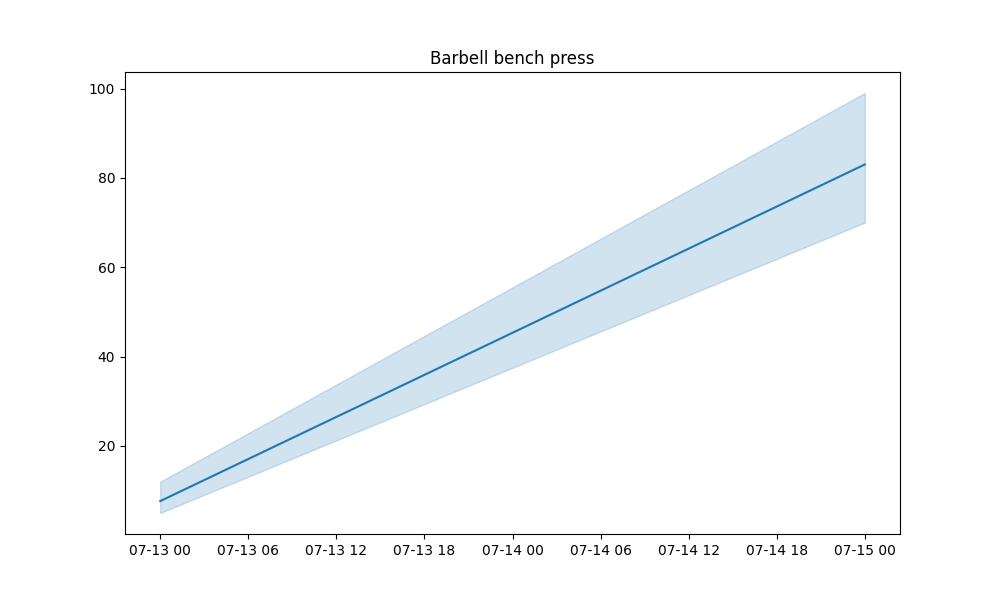
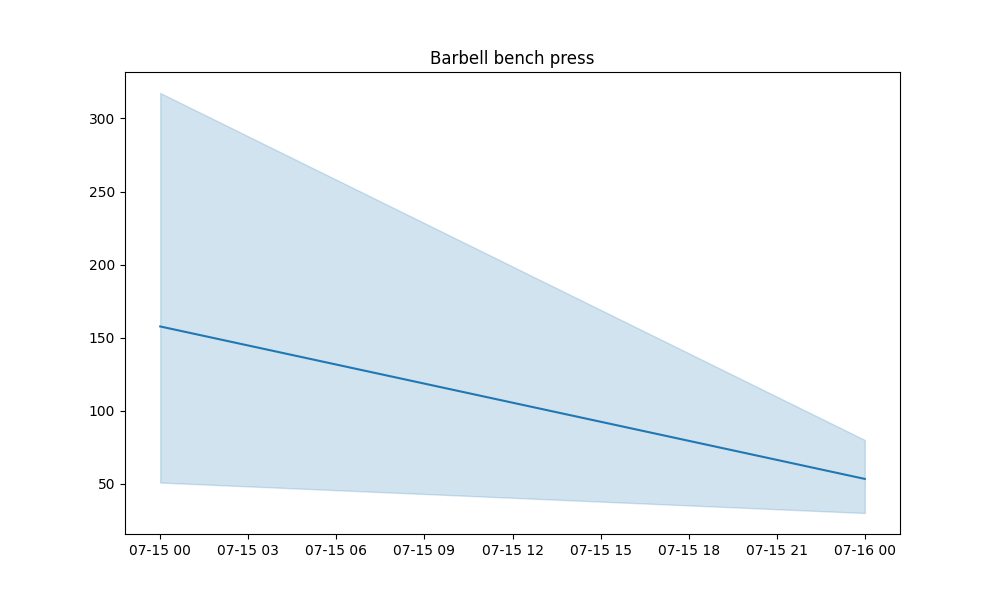
workout charts user

diff --git a/sportoclub/core/views.py b/sportoclub/core/views.py
@@ -15,12 +15,14 @@ import matplotlib.pyplot as plt
 import os
 from django.conf import settings
 from django.templatetags.static import static
+from django.utils import timezone
 
 
 
 
 def start_workout(request, pk):
     workout = get_object_or_404(Workout, pk=pk)
+    print(workout)
     first_exercise = WorkoutExercise.objects.filter(workout=workout).order_by('id').first()
     if first_exercise:
         return redirect('next_exercise', workout_pk=workout.pk, exercise_pk=first_exercise.pk)
@@ -36,12 +38,13 @@ def next_exercise(request, workout_pk, exercise_pk):
         if form.is_valid():
             # create SetLog objects like before
             for i in range(current_exercise.sets):
-                SetLog.objects.create(
+                setlog = SetLog.objects.create(
                     user=request.user,
                     workout_exercise=current_exercise,
                     weight=form.cleaned_data.get(f'weight_{i}'),
                     reps=form.cleaned_data.get(f'reps_{i}')
                 )
+                print(setlog)
             # then redirect to next exercise
             next_exercise = WorkoutExercise.objects.filter(workout=workout, id__gt=current_exercise.id).order_by('id').first()
             if next_exercise:
@@ -54,7 +57,10 @@ def next_exercise(request, workout_pk, exercise_pk):
 
 def workout_summary(request, workout_id):
     workout = get_object_or_404(Workout, pk=workout_id)
-    exercise_logs = SetLog.objects.filter(workout_exercise__workout=workout).order_by('timestamp')
+    print(workout)
+    now = timezone.now()
+    start_time = now - timezone.timedelta(hours=1)
+    exercise_logs = SetLog.objects.filter(workout_exercise__workout=workout, timestamp__gte=start_time).order_by('timestamp')
     
     # Create a dictionary where each key is an Exercise instance and each value is a list of SetLog instances
     exercises_data = {}
@@ -80,7 +86,7 @@ def workout_charts(request, workout_id):
     if not workout:
         return render(request, 'no_workouts.html')
 
-    exercise_logs = SetLog.objects.filter(workout_exercise__workout=workout).order_by('timestamp')
+    exercise_logs = SetLog.objects.filter(workout_exercise__workout=workout, user=request.user).order_by('timestamp')
     exercises_data = {}
 
     for log in exercise_logs:
